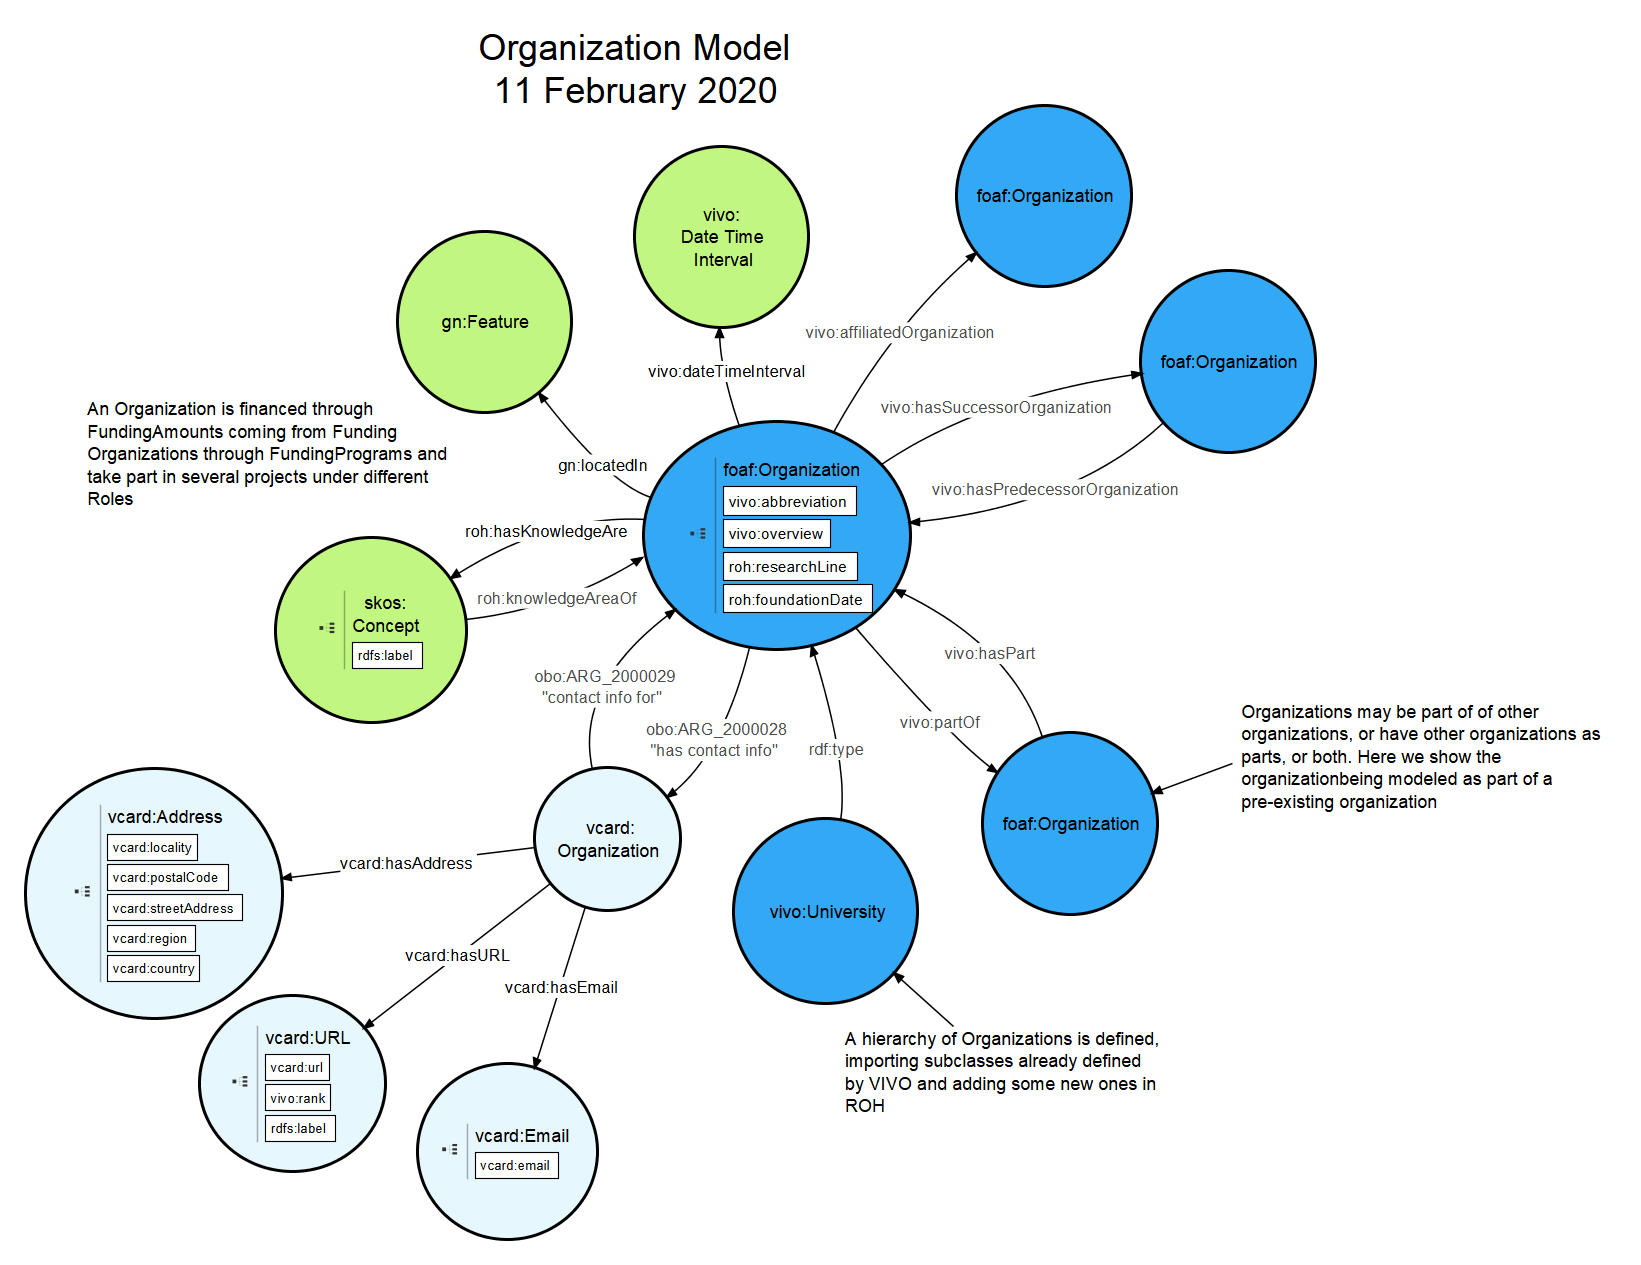
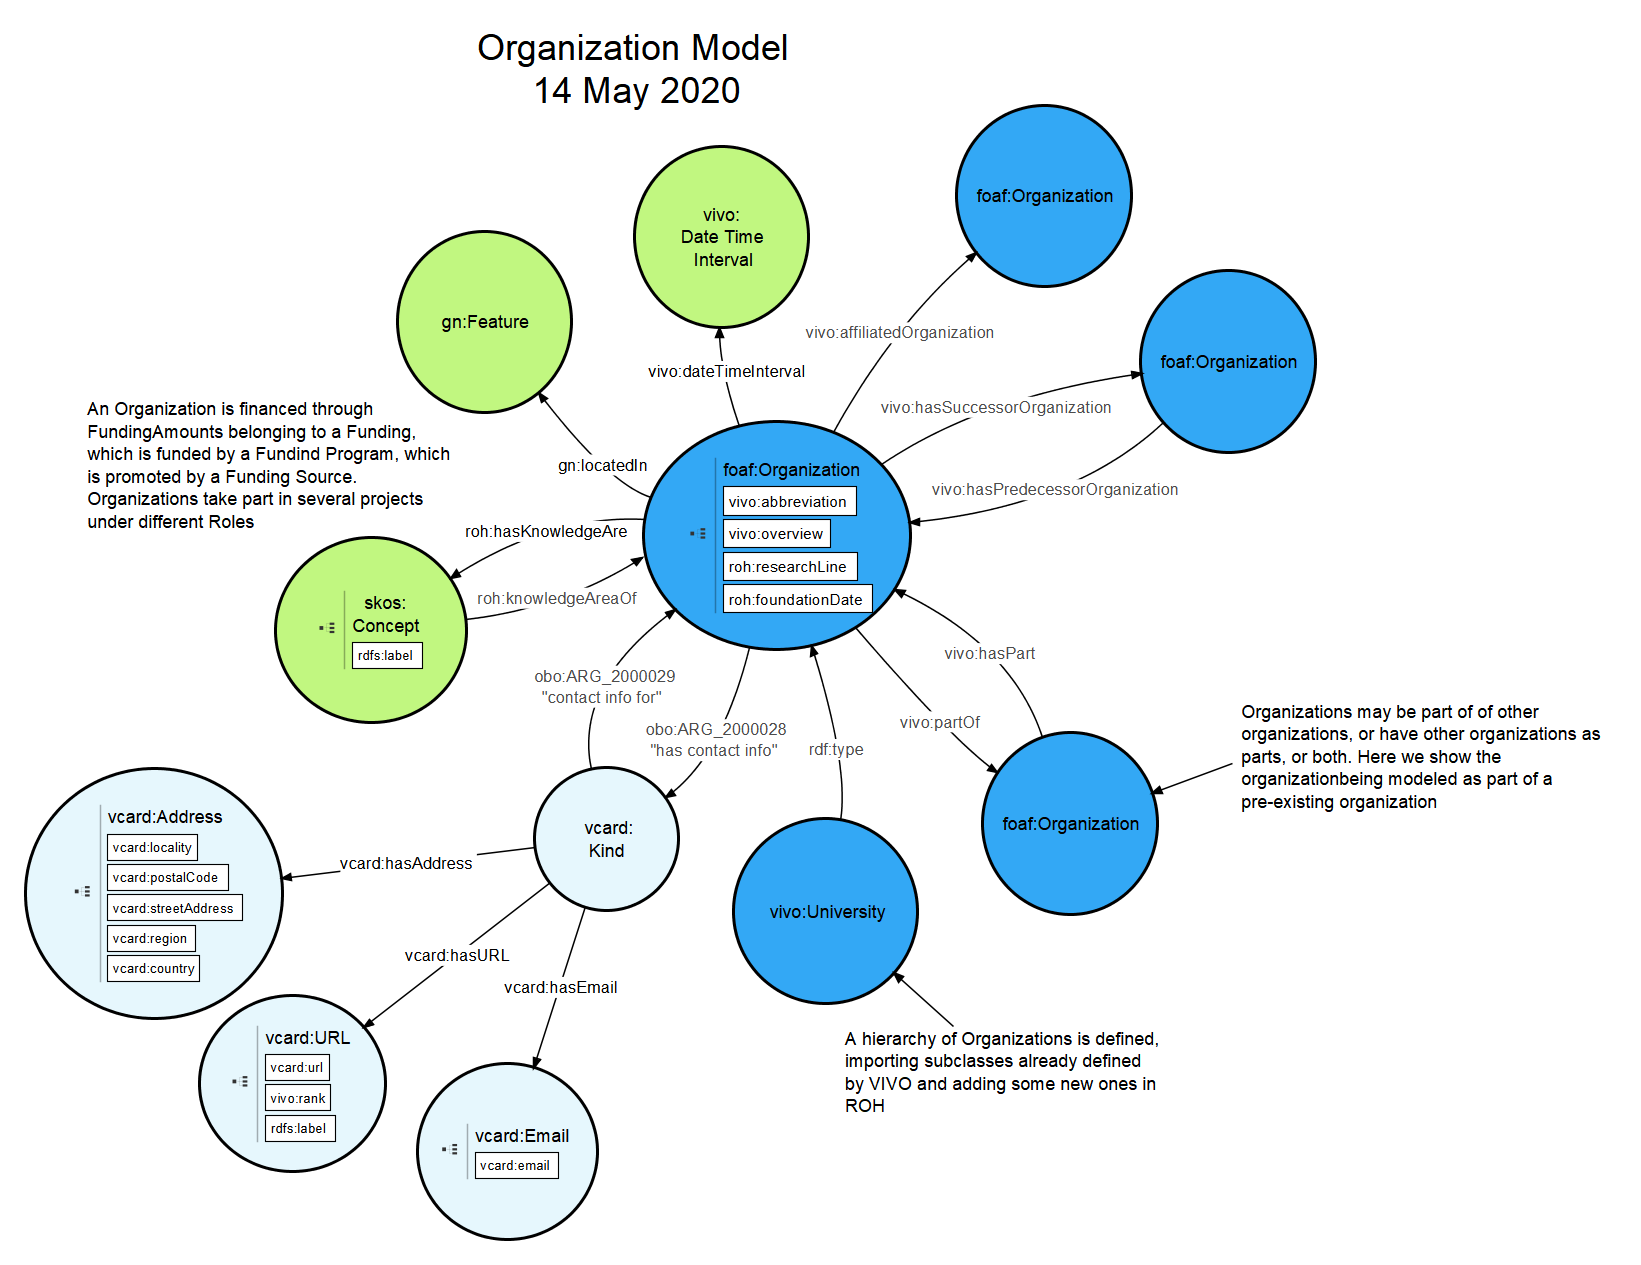
updated documentation vivo:Project

diff --git a/Documentation/README.md b/Documentation/README.md
@@ -241,7 +241,7 @@ defined within the foaf:Person entity in ROH.
 -----------------------
 
 An Organization in ROH (see Figura 4) is a foaf:Organization which
-carries out several roh:Project. It is a child of foaf:Agent. Some
+carries out several vivo:Project. It is a child of foaf:Agent. Some
 organization can emit roh:Acreditation (e.g. ANECA or CENAI in Spain),
 those belonging to subclass roh:AccreditationIssuer, or award degrees
 (vivo:AwardedDegree), those of subclass vivo:University. An Organization
@@ -256,22 +256,23 @@ through vivo:dateTimeInterval linking it with an instance of
 vivo:DateTimeInterval.
 
 Based on FOAF \[10\], the foaf:Organization entity takes into account
-the object properties (attributes: roh:acronym, foaf:homepage) and data
-properties (links) defined by the Organization Unit in CERIF. It also
-takes into account and supports the relationships of CERIF Equipment
-(via roh:Equipment and roh:hasInfrastructure), Event (roh:Activity),
-Expertise and Skill (via vivo:keywords and roh:hasKnowledgeArea),
-Facility (roh:Facility and roh:hasInfrastructure), Funding
-(roh:Funding), Organization Unit (kinship relationships between
-organizations can be established with vivo:hasPart and vivo:partOf),
-Prize Award (through roh:Accreditation), Result Patent, Result Product,
-Result Publication and Service - all of them through roh:ResearchObject
-which can be obtained through the roh:produces relationship from the
-Projects in which an organization participates by playing a declared
-role through roh:hasRole, Person (through roh:hasPosition). Therefore,
-the CERIF data model for Organization is covered.
+the data properties (attributes: vivo:abbrevation, foaf:homepage) and
+data properties (links) defined by the Organization Unit in CERIF. It
+also takes into account and supports the relationships of CERIF
+Equipment (via entity vivo:Equipment and object property
+roh:hasInfrastructure), Event (roh:Activity), Expertise and Skill (via
+vivo:freeTextKeyword and roh:hasKnowledgeArea), Facility (roh:Facility
+and roh:hasInfrastructure), Funding (roh:Funding), Organization Unit
+(kinship relationships between organizations can be established with
+vivo:hasPart and vivo:partOf), Prize Award (through roh:Accreditation),
+Result Patent, Result Product, Result Publication and Service - all of
+them through roh:ResearchObject which can be obtained through the
+roh:produces relationship from the Projects in which an organization
+participates by playing a declared role through roh:hasRole, Person
+(through roh:hasPosition). Therefore, the CERIF data model for
+Organization is covered.
 
-An exhaustive hierarchy of organizations is includes, e.g.
+An exhaustive hierarchy of organizations is included, e.g.
 roh:AccreditationIssuer, vivo:Company or vivo:University, among many
 others.
 
@@ -286,7 +287,7 @@ following entities through object properties:
     through roh:hasRole in an activity or may through its participation
     role in a project participate (roh:participates) in an activity.
 
--   vivo:AwardedDegree, where and organization may roh:awards degrees
+-   vivo:AwardedDegree, where a vivo:University may roh:awards degrees
     which are related to both a concrete vivo:AcademicDegree and an
     instance of foaf:Person.
 
@@ -303,8 +304,8 @@ following entities through object properties:
 -   roh:FundingAmount where an organization may receive several funding
     amounts part of a roh:Funding through roh:grants object property.
 
--   vcard:Organization, where an organization obo:hasContactInfo is described
-    through ontology vcard.
+-   vcard:Organization, where an organization obo:hasContactInfo
+    described through ontology vcard.
 
 -   roh:Infrastructure, where an organization may roh:hasInfrastructure,
     belonging to any of its subclasses, e.g. roh:Equipment or
@@ -314,6 +315,9 @@ following entities through object properties:
     vivo:hasSucessorOrganization or vivo:hasPredecessorOrganization with
     another foaf:Organization or may be part of (vivo:partOf) or include
     (vivo:hasPart) other several foaf:Organization.
+
+See table in section [foaf:Person](#entity-person) for more details on object and data properties.
+
 
 ![A picture containing map, text Description automatically
 generated](.//media/3.roh-organization.png)
